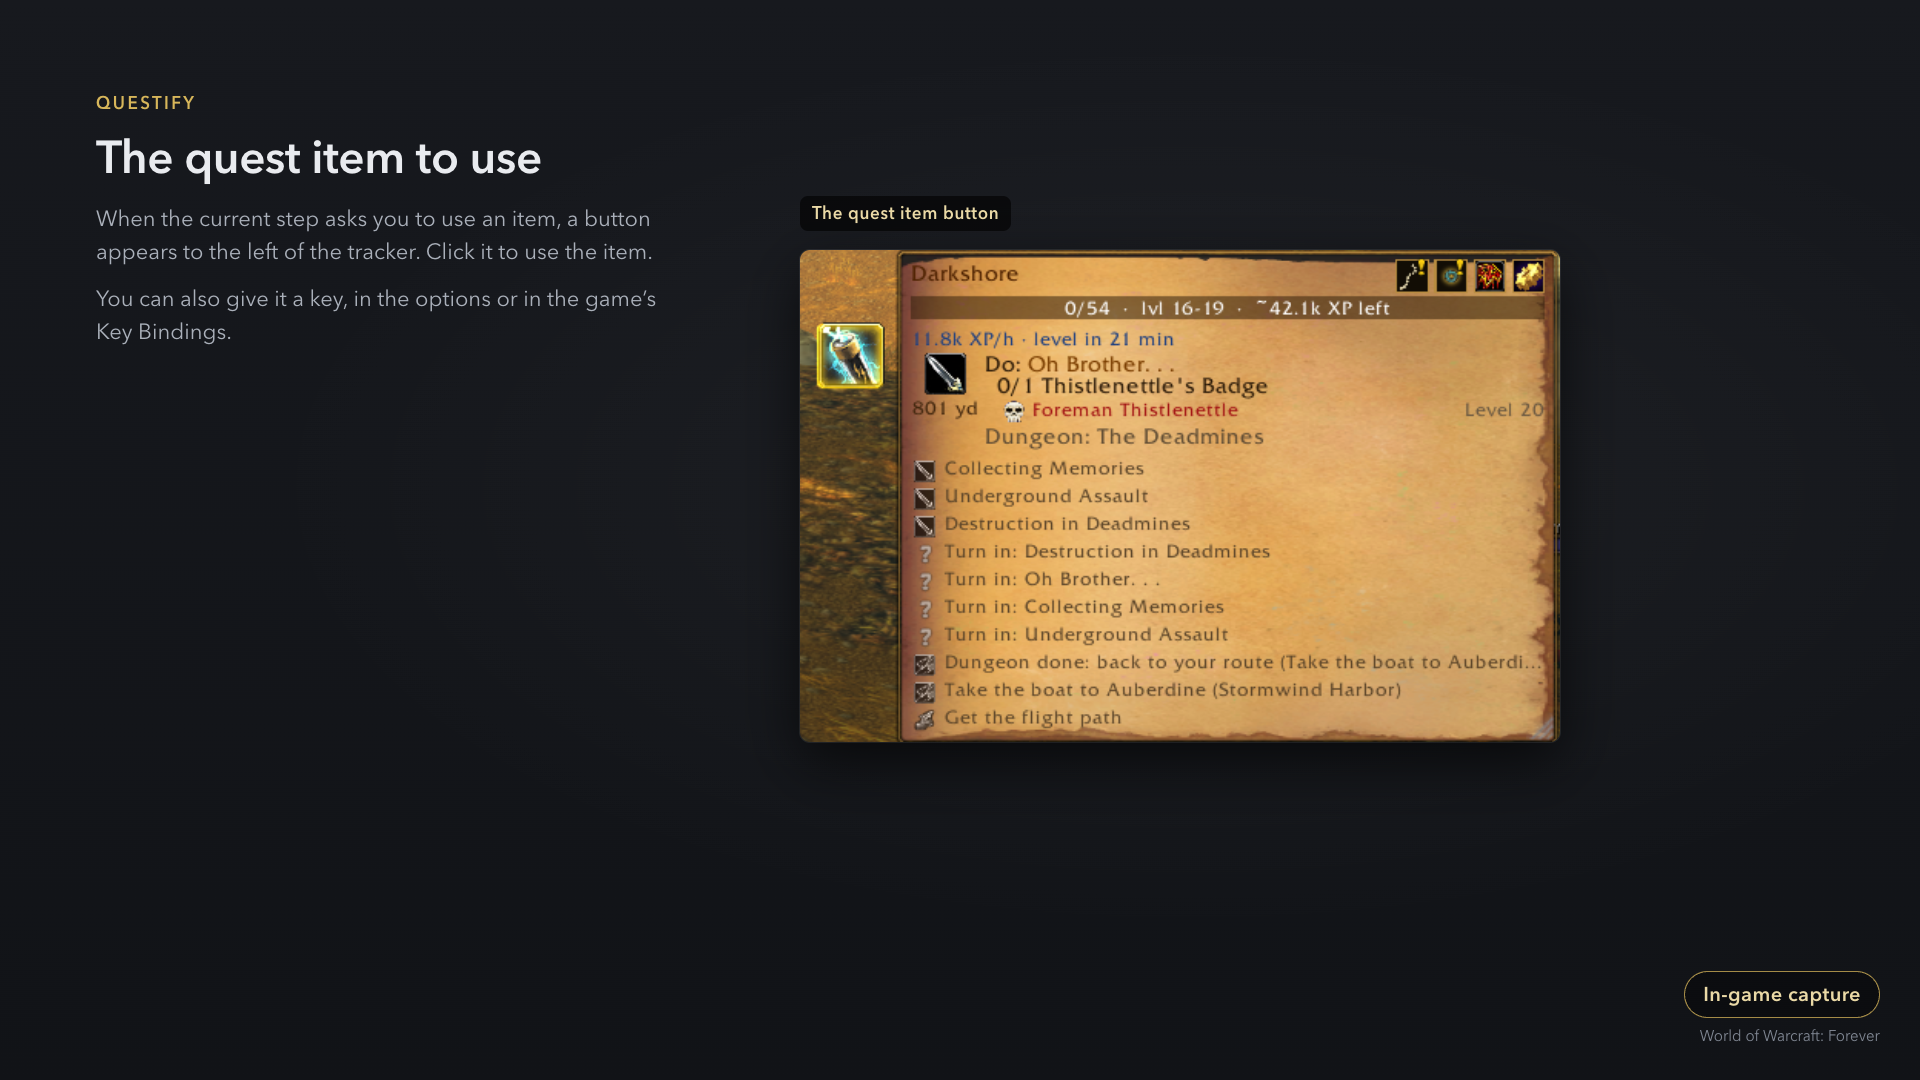
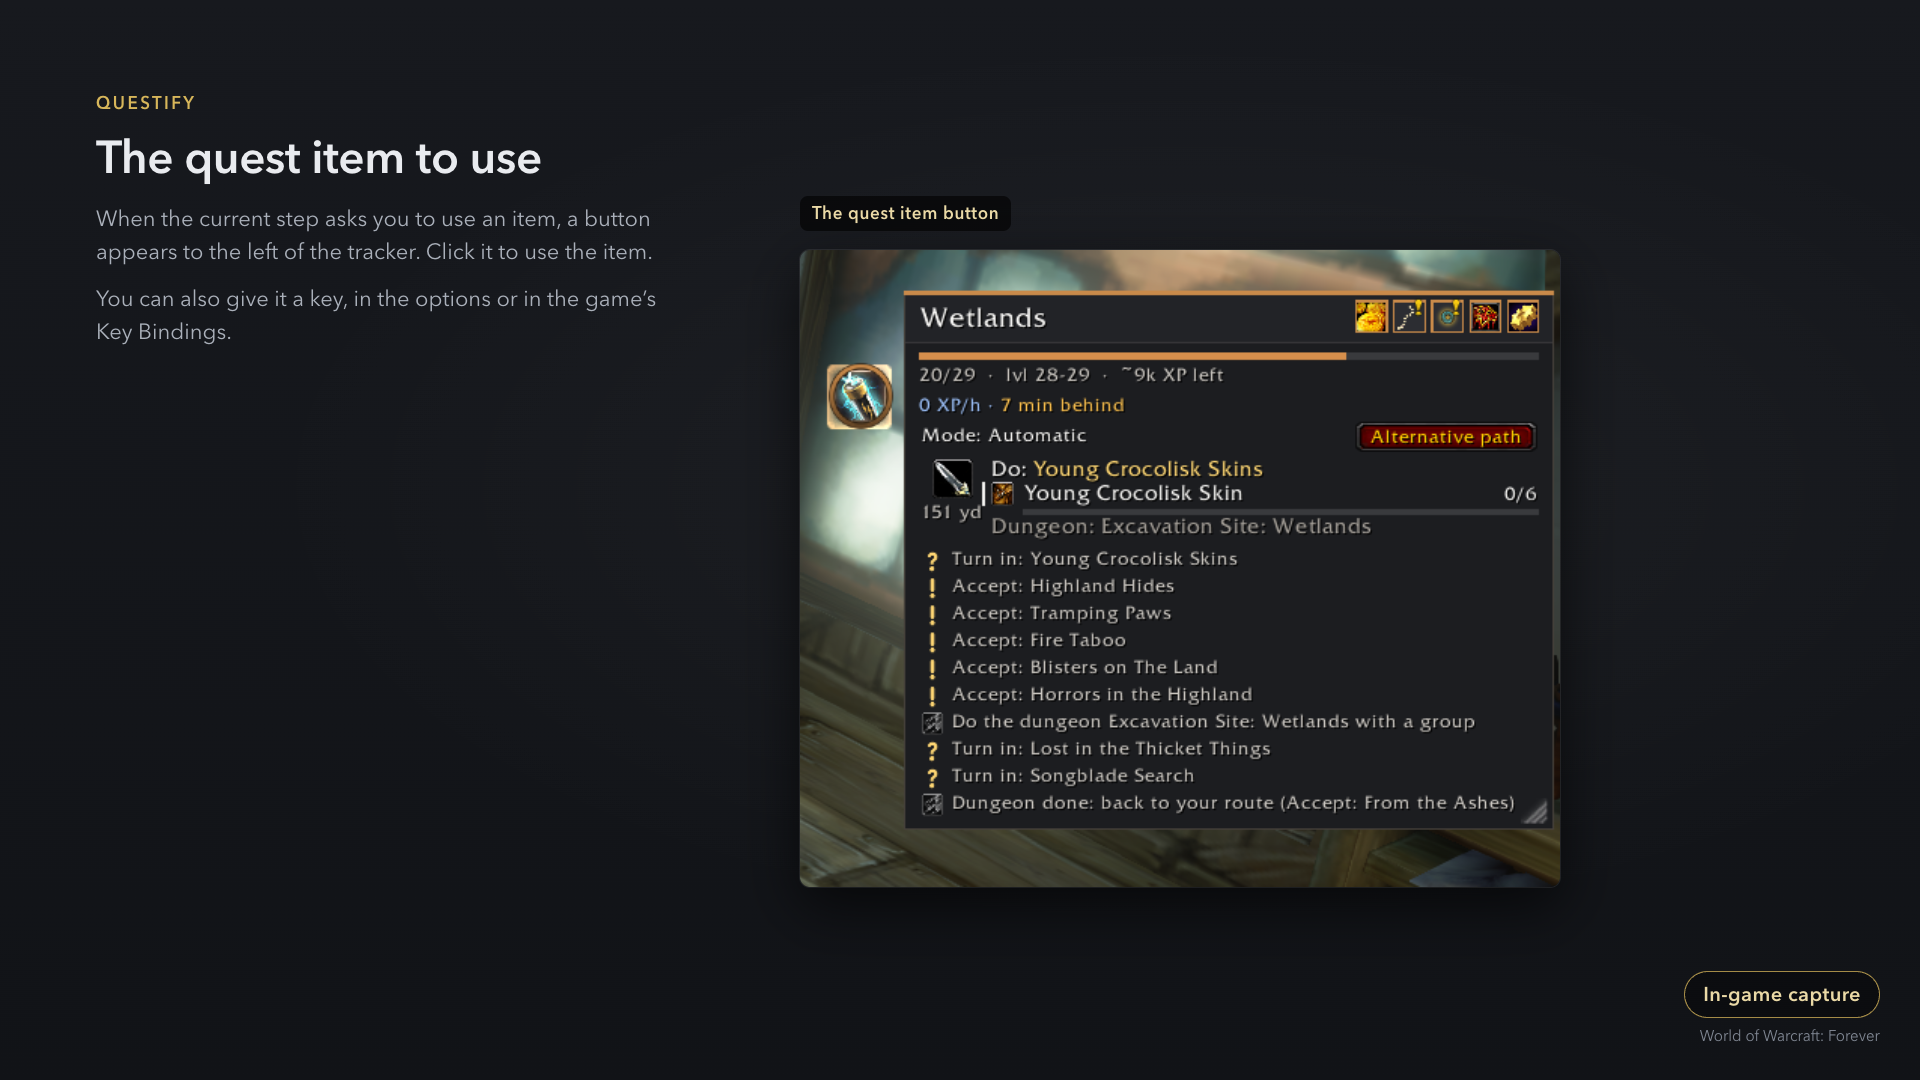
feat(demo): scène auction et fenêtre de route classée au niveau du chapitre
/qf demo auction remplit la liste des objets à acheter avec des objets d'exemple (chapitre en cours et
suivant) pour les captures ; /qf demo route classe les cartes au niveau de fin de Loch Modan, plus au
niveau réel. Image 10 du bouton d'objet de quête refaite, plan des captures à jour.

Changed region(s): [[0.4062, 0.2139, 0.8125, 0.825]]

diff --git a/docs/media/CAPTURES-V1.md b/docs/media/CAPTURES-V1.md
@@ -15,6 +15,13 @@ l'insère dans le gabarit (`docs/media/apercus/src/en/<nom>.html`) puis je rends
 - Un personnage autour du niveau 20 à 35 donne les exemples les plus parlants (donjons, talents, routes).
 - Hors combat. `/qf demo off` remet tout en place après une scène de démonstration.
 
+## Où on en est (17/11)
+- Faites : 01 (suivi ; à refaire si possible sur une vraie étape « tuer » des Paluns, la capture montre des
+  objectifs de Froidecrête) et 10-quest-item (série d'avant, rafraîchie).
+- À refaire : 16 (fenêtre de démo classée au niveau 34), 14 (objets d'exemple moins bons que ton équipement).
+- Options (21, 22, 26 et l'encart de 24) : après le passage en 1.0.0, le pied du menu affiche la version.
+- Après mise à jour du code : `/reload` (scène `auction` nouvelle, scène `route` corrigée).
+
 ## Liste
 
 | # | Fichier | Ce qu'on voit | Mise en scène |
@@ -22,7 +29,7 @@ l'insère dans le gabarit (`docs/media/apercus/src/en/<nom>.html`) puis je rends
 | 1 | `01-tracker.png` | Le suivi : barre du chapitre, étape « tuer » avec barres d'objectifs, monstres à tuer, XP/h et avance, boutons de l'en-tête (dont pièces d'or). | En pleine nature sur une étape « tuer », ou `/qf demo tracker`. |
 | 2 | `20-navigation.png` | Le guidage intégré : la flèche à l'écran avec la distance et le temps, le trajet tracé sur la minicarte. | Une étape à 200-600 yd, en marchant ; capture avec la minicarte visible. |
 | 3 | `20b-navigation-map.png` | Le trajet sur la carte du monde : marche, vol ou bateau jusqu'à l'étape. | Même étape, carte du monde ouverte (M) ; idéalement une étape qui demande un vol. |
-| 4 | `16-route-choice.png` | « Change route » : le chapitre en cours et les chapitres du niveau, carte conseillée. | Journal (`/qf`), bouton « Change route », personnage de niveau 25-35. |
+| 4 | `16-route-choice.png` | « Change route » : le chapitre en cours et les chapitres du niveau, carte conseillée. | Journal (`/qf`), bouton « Change route », personnage de niveau 25-35. À défaut `/qf demo route` (fin de Loch Modan, classée au niveau 13 depuis le correctif). |
 | 5 | `08-journal-route.png` | Le journal, onglet Route (vue Manuel) : chapitres par niveau, étapes, onglets en haut. | `/qf`, onglet Route, vue Manual. |
 | 6 | `08c-journal-dungeons.png` | Onglet Donjons revu : itinéraire de prise depuis ta position, quêtes par arrêt, boutons « i » et carte. | `/qf`, onglet Dungeons, un donjon **avec des quêtes à faire** (pas un donjon déjà vidé comme Deadmines) ; ouvrir un « i ». Nain 34 : Gnomeregan (quêtes à Forgefer et Dun Morogh) ou Scarlet Monastery. Personnage horde 13-18 : Ragefire Chasm. L'onglet ne liste que les donjons de la faction du personnage. |
 | 7 | `21-class-talents.png` | Options > Class > Talents : spés, « My points / My choice », arbre, point suivant. | `/qf options`, section Class, onglet Talents. |
@@ -30,8 +37,8 @@ l'insère dans le gabarit (`docs/media/apercus/src/en/<nom>.html`) puis je rends
 | 9 | `23-trainer.png` | Chez l'entraîneur de classe : sorts à apprendre avec le prix, puis l'offre de remplacer les anciens rangs. | Parler à ton entraîneur de classe avec des sorts à apprendre. |
 | 10 | `24-raid-marks.png` | Icônes de raid sur les monstres d'objectif visibles. | Zone d'objectif avec plusieurs monstres, plaques ennemies affichées (V), appuyer sur la touche de marquage. |
 | 11 | `12-pace.png` | Journal, onglet Pace : avance sur la route, temps par chapitre, session. | `/qf`, onglet Pace, après au moins 10 min de jeu. |
-| 12 | `25-auction.png` | La liste des objets de quête à acheter, collée à l'hôtel des ventes, avec les prix. | Chez un encanteur avec un chapitre qui a des objets à acheter, puis le bouton pièces d'or du suivi. |
-| 13 | `14-equip-pair.png` | Récompenses et butin : flèche verte sur la récompense, annonce « Equip ». | `/qf demo pair` (ou une vraie récompense de quête). |
+| 12 | `25-auction.png` | La liste des objets de quête à acheter, collée à l'hôtel des ventes, avec les prix. | `/qf demo auction` (liste remplie d'objets d'exemple, prix d'Auctionator) ; chez un encanteur, HV ouvert, la liste d'achats s'affiche aussi à côté. |
+| 13 | `14-equip-pair.png` | Récompenses et butin : flèche verte sur la récompense, annonce « Equip ». | Sur un personnage de niveau 12 au plus, arme à deux mains équipée : `/qf demo upgrade` puis `/qf demo pair`. Plus haut, les objets d'exemple sont moins bons que ton équipement (« Upgrade found » avec −31 DPS). |
 | 14 | `26-themes.png` | Options > Theme : cartes des 13 thèmes et aperçu en direct à droite. | `/qf options`, section Theme. |
 | 15 | `27-news.png` | La fenêtre des nouveautés de la 1.0, étape par étape. | `/qf news`. |
 
